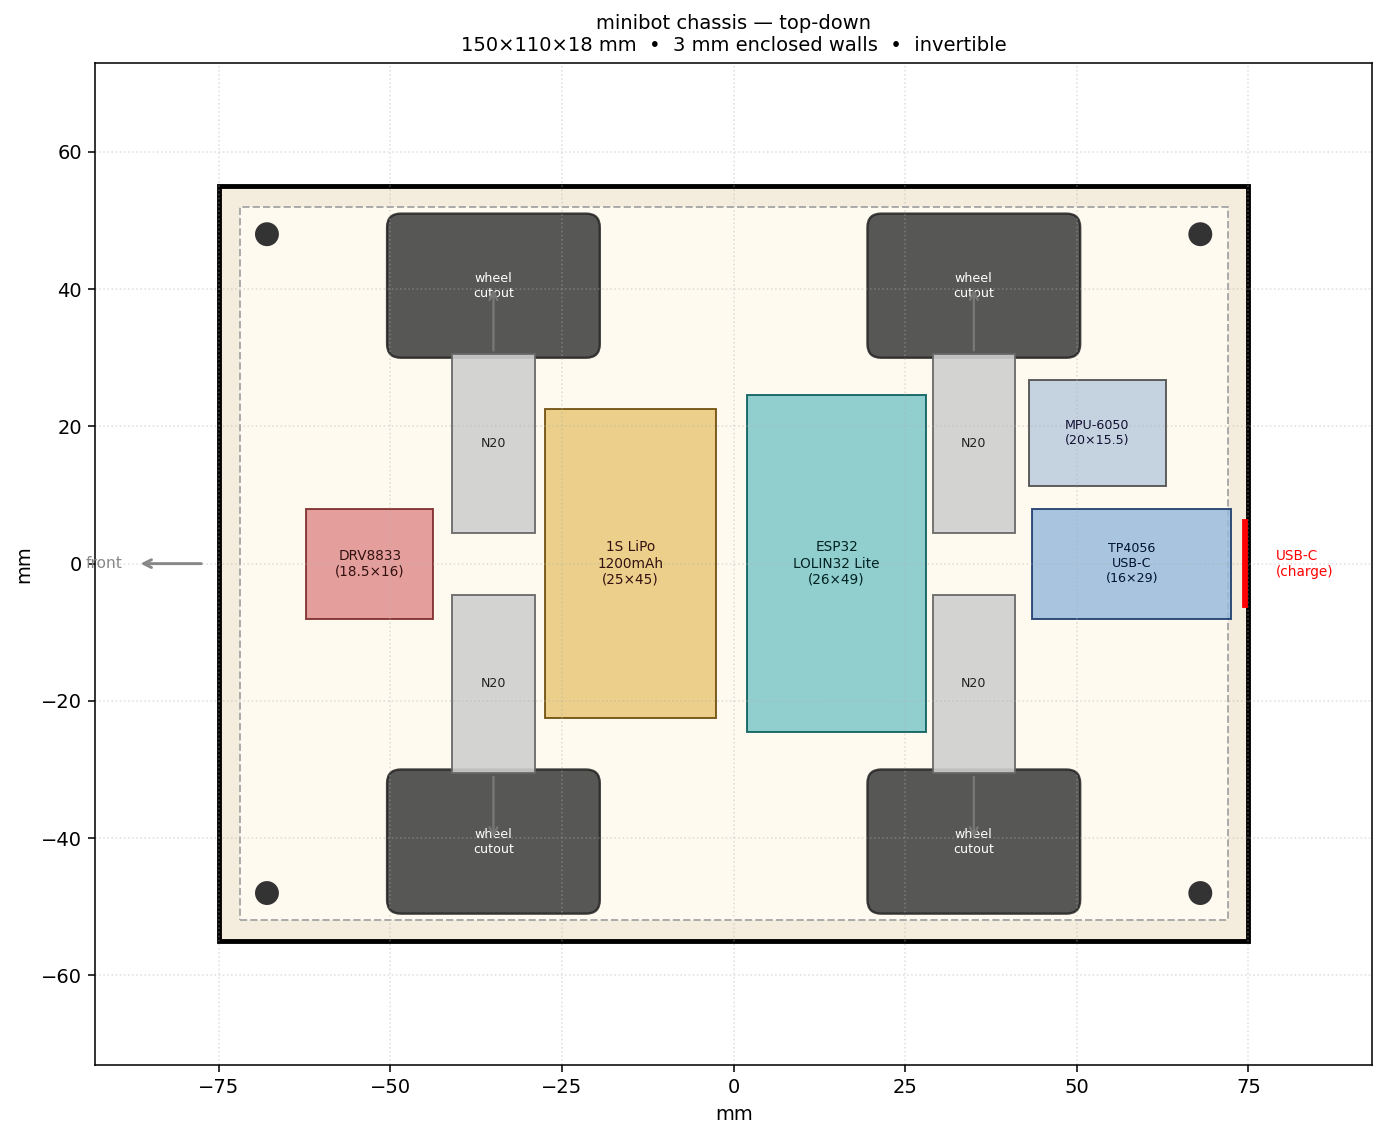
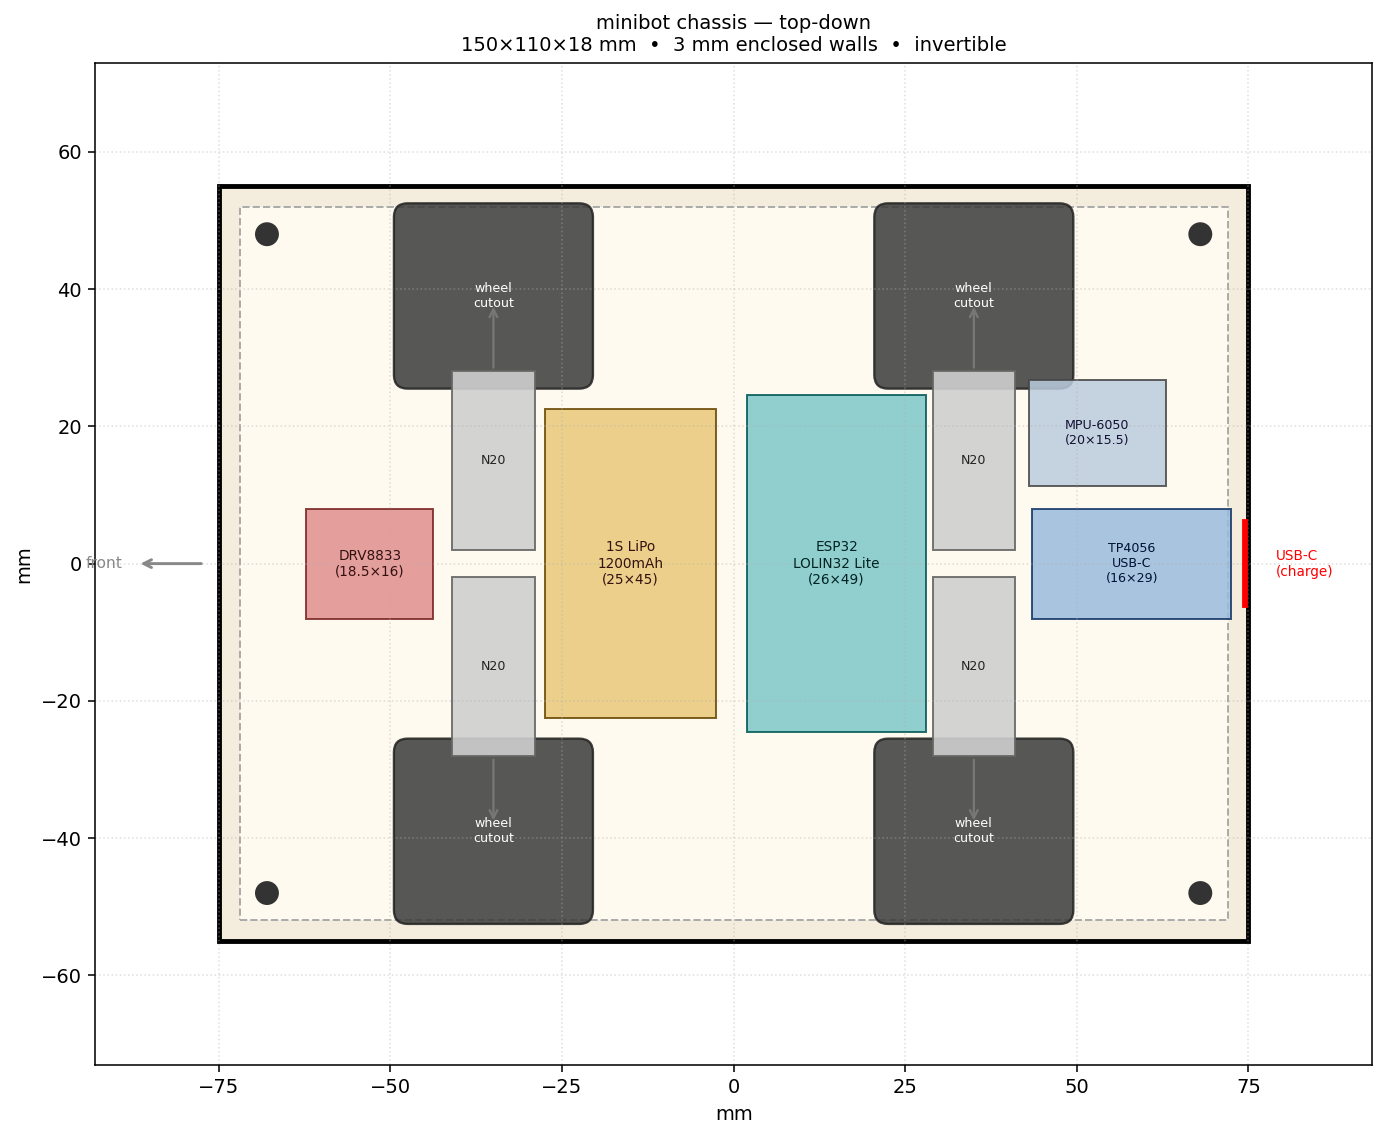
feat(cad): switch to JS2622 wheels (28mm OD with rubber, 22mm wide) and shrink motor track

diff --git a/docs/cad/layout.py b/docs/cad/layout.py
@@ -22,10 +22,10 @@ motor_height = 10      # Z dimension (perpendicular to plate)
 motor_diameter = motor_width  # alias for the X footprint in the top-down view
 motor_length = 26      # measured body length, excluding shaft
 motor_axle_pitch = 70
-motor_track = 35
+motor_track = 30
 
-wheel_diameter = 33
-wheel_width = 20
+wheel_diameter = 28      # 26 mm hub + ~1 mm rubber band on each side of OD
+wheel_width = 22
 
 motor_center_y = motor_track / 2
 wheel_center_y = motor_center_y + motor_length / 2 + wheel_width / 2
@@ -68,10 +68,12 @@ def render() -> None:
     ))
 
     # Wheel cutouts (poking out of top + bottom plates)
+    cutout_x = 28
+    cutout_y = wheel_width + 4
     for x, y in wheel_positions:
         ax.add_patch(patches.FancyBboxPatch(
-            (x - 30 / 2, y - wheel_width / 2),
-            30, wheel_width,
+            (x - cutout_x / 2, y - cutout_y / 2),
+            cutout_x, cutout_y,
             boxstyle="round,pad=0.5,rounding_size=2",
             linewidth=1.2, edgecolor="#222", facecolor="#3a3a3a", alpha=0.85,
         ))
